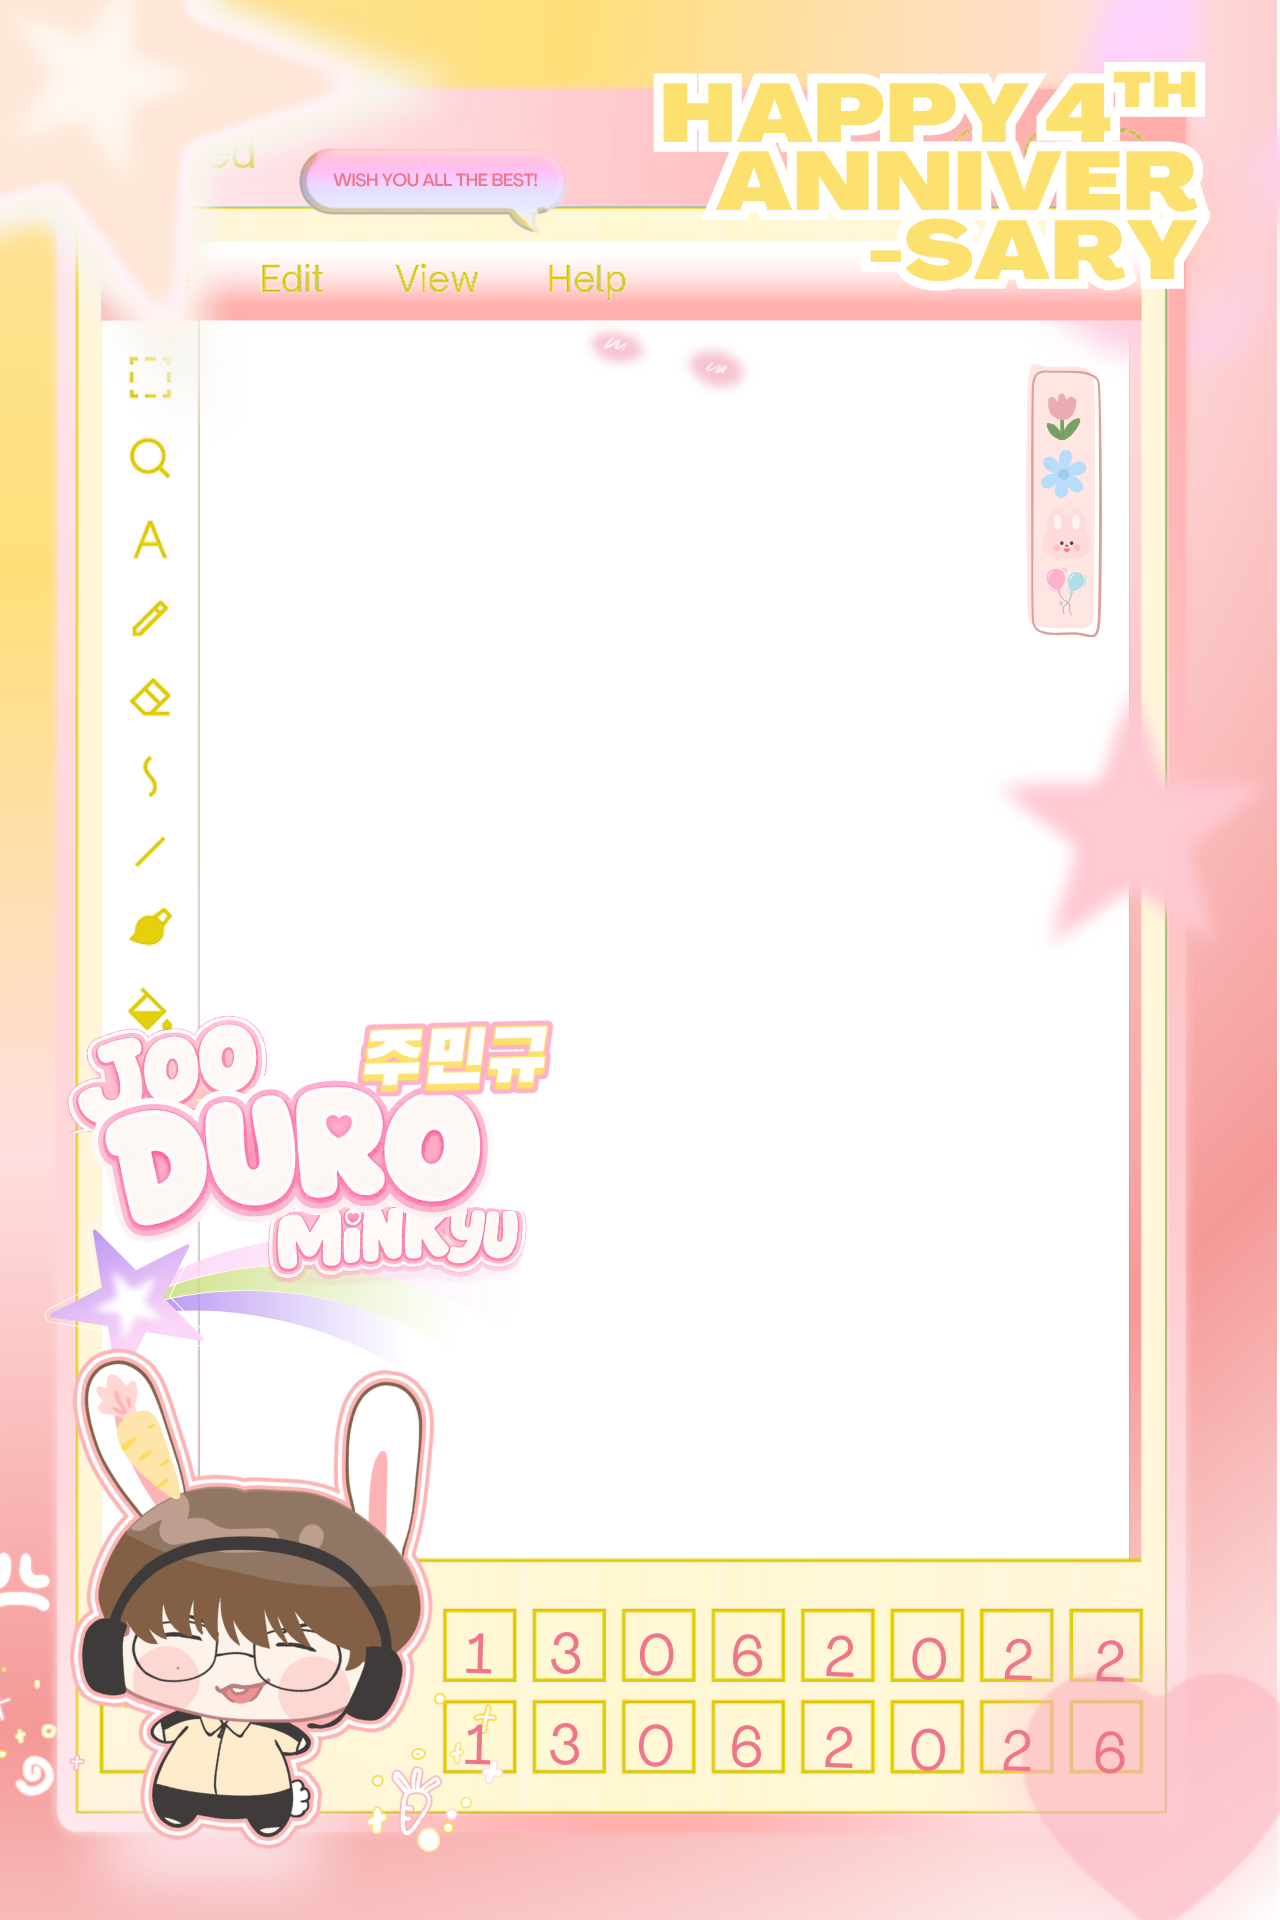
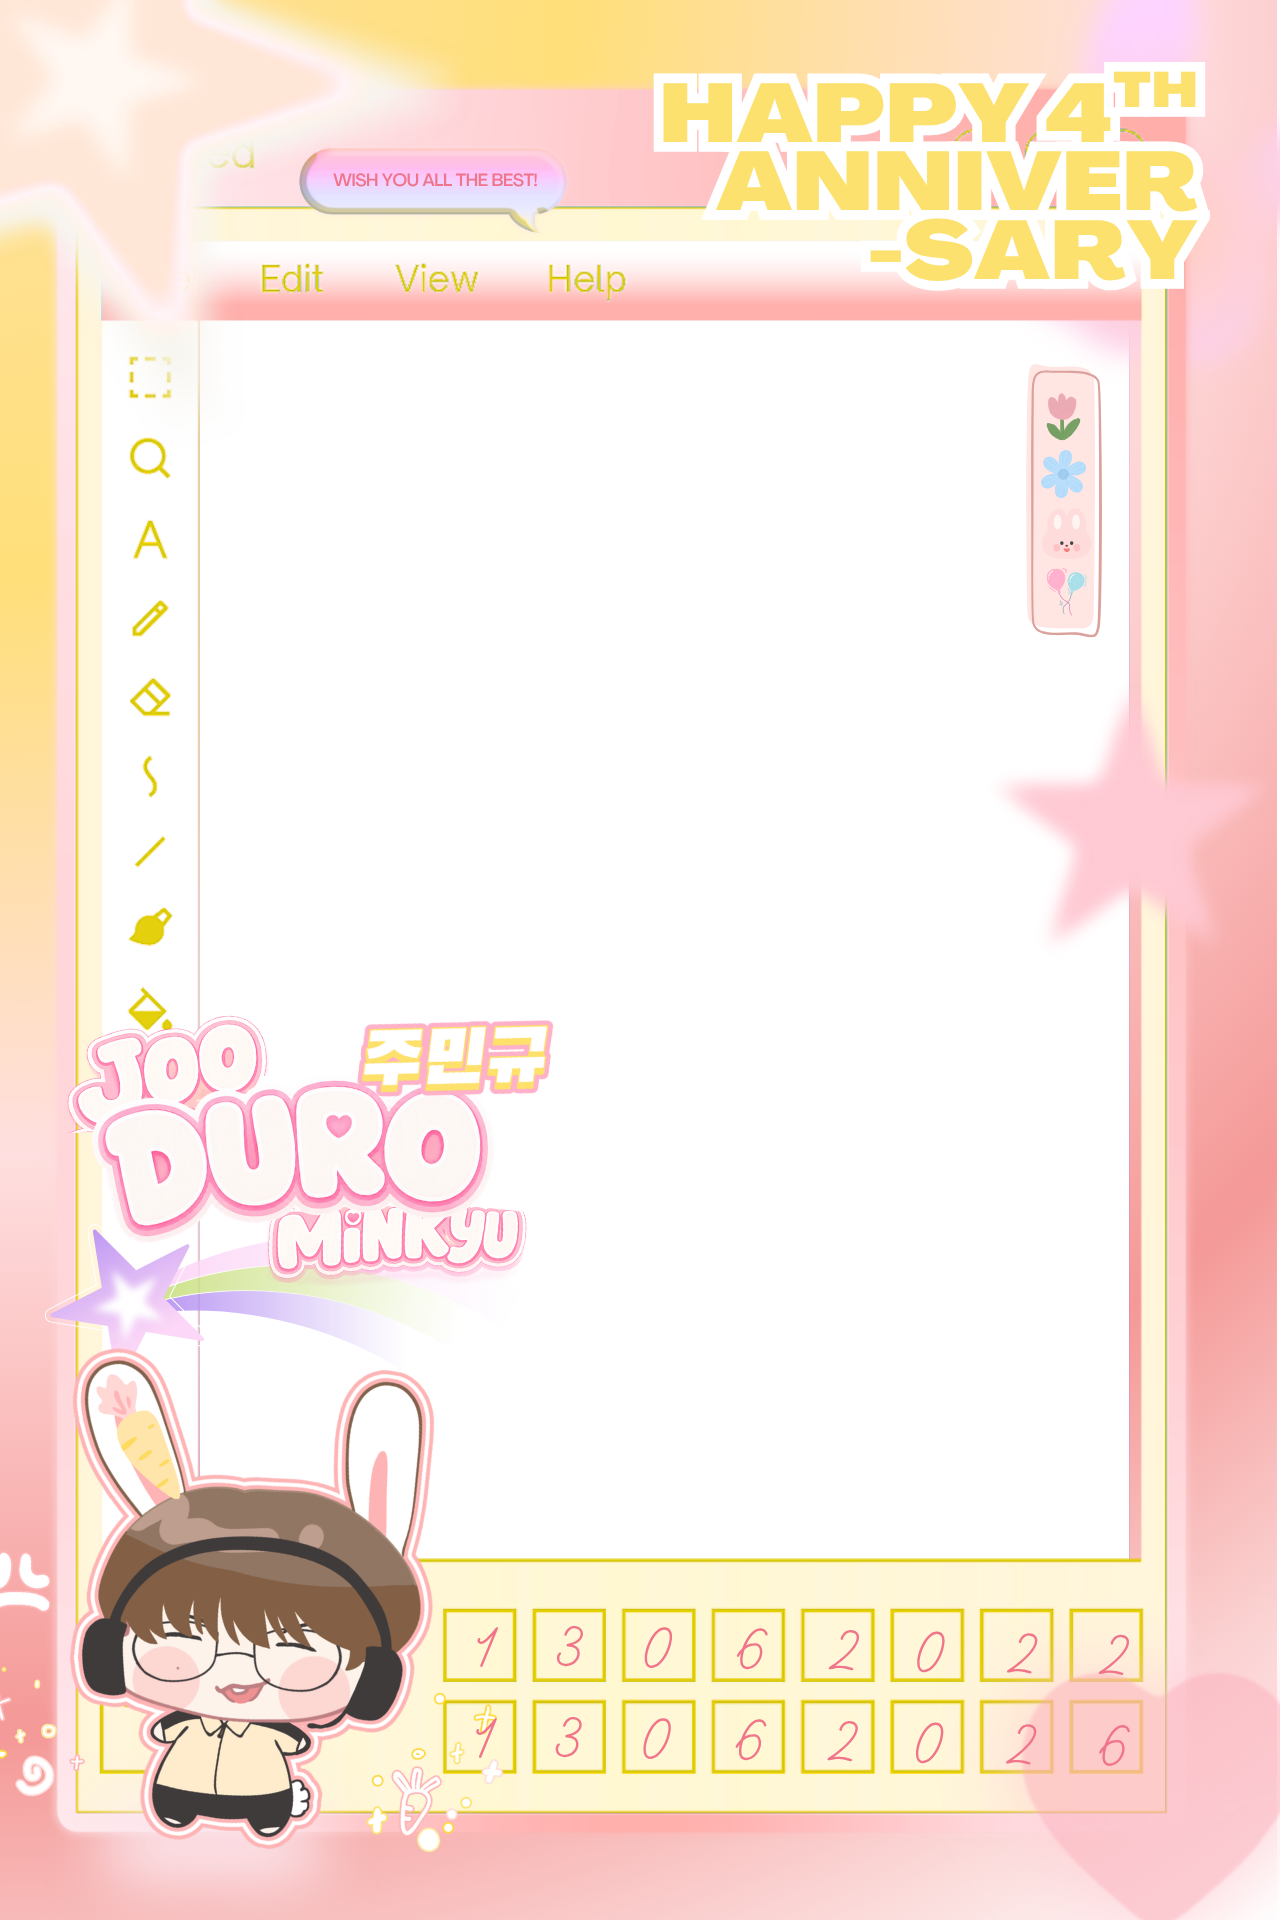
Add files via upload

diff --git a/index.html b/index.html
@@ -196,9 +196,9 @@
       {x:200/1280, y:321/1920, w:(1279-200)/1280, h:(1558-321)/1920}
     ]},
     3: { src:'frame3.png', w:1080, h:1920, slots:[
-      {x:64/1080, y:207/1920,  w:(1011-64)/1080, h:(648-207)/1920},
-      {x:64/1080, y:696/1920,  w:(1011-64)/1080, h:(1230-696)/1920},
-      {x:64/1080, y:1278/1920, w:(1011-64)/1080, h:(1782-1278)/1920}
+      {x:30/1080, y:195/1920,  w:(1050-30)/1080, h:(660-195)/1920},
+      {x:30/1080, y:690/1920,  w:(1050-30)/1080, h:(1236-690)/1920},
+      {x:30/1080, y:1272/1920, w:(1050-30)/1080, h:(1788-1272)/1920}
     ]}
   };
 
